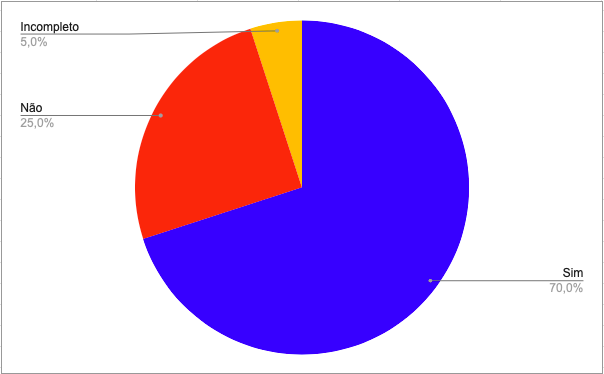
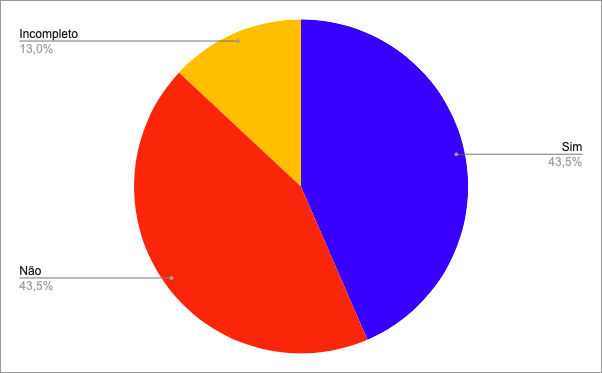
correcao verificacao do planejamento do storyboard

diff --git a/docs/Verificacao/OpenStreetMap/Entrega4/Planejamento-Avaliacao-sotoryboard.md b/docs/Verificacao/OpenStreetMap/Entrega4/Planejamento-Avaliacao-sotoryboard.md
@@ -20,33 +20,36 @@ Dessa forma, reavaliamos nosso checklist, levando em conta os pontos levantados 
 
 ## Checklist
 <!-- LIVRO BASE PARA CRIAÇÃO DAS PERGUNTAS -->
-Os checklists foram estabelecido com base nos critérios da literatura Interação Humano-Computador[4] e, como citado anteriormente, nas verificações realizadas anteriormente, pelo nosso grupo, OpenStreetMap[5] e pelo Grupo 3, Banco Central[6]. Além das perguntas padrões estabelecidas no [Planejamento Geral](../0planejamento-geral.md). Na tabela 1 abaixo, etá o checklist de verificação da versão 1.0 do artefato do Planejamento da Avaliação do Sotryboard.
+Os checklists foram estabelecido com base nos critérios livro Interação Humano-Computador e Experiência do usuário (capítulo 11)[4] e, como citado anteriormente, nas verificações realizadas anteriormente, pelo nosso grupo, OpenStreetMap[5] e pelo Grupo 3, Banco Central[6]. Além das perguntas padrões estabelecidas no [Planejamento Geral](../0planejamento-geral.md). Na tabela 1 abaixo, etá o checklist de verificação da versão 1.0 do artefato do Planejamento da Avaliação do Sotryboard.
 
 <center>
 <!-- ADICIONAR O CHECKLIST OU OS CHECKLISTS DA ENTREGA REFERENTE -->
 
-| ID | Pergunta                                                                                                                        | Avaliação | Observação |
-|----|---------------------------------------------------------------------------------------------------------------------------------|-----------|------------|
-| 1  | O artefato possui uma introdução condizente com o conteúdo do texto?                                                           |    Sim       |            |
-| 2  | Todas as bibliografias/referências bibliográficas são utilizadas no texto?                                                     |      Não     |    Não são utilizadas no texto.        |
-| 3  | Todas as tabelas e figuras são chamadas no texto, possuem legendas e fontes?                                                   |    Sim       |           |
-| 4  | As metodologias do texto definem de forma condizente as formas e os métodos que o grupo realizou o artefato?                   |     Sim      |            |
-| 5  | O artefato segue o Framework DECIDE?                                                                                            |    Sim       |      O artefato segue a estrutura do DECIDE, mas não explicitamente.      |
-| 6  | O artefato define claramente as metas e objetivos da avaliação?                                                                 |    Sim       |            |
-| 7  | O artefato indica quais métodos de avaliação serão utilizados para avaliar o storyboard?                                       |          Sim |           |
-| 8  | Os métodos escolhidos para a avaliação são apropriados?                                                                       |     Sim      |            |
-| 9  | O artefato considera e aborda questões práticas relevantes para a avaliação?                                                    |      Sim     |            |
-| 10 | O artefato informa a quantidade de participantes envolvidos na avaliação e o motivo dessa quantidade?                             |     Não      |          |
-| 11 | O perfil dos participantes foi definido?                                                                                        |  Sim         |            |
-| 12 | O artefato possui um cronograma com datas, horários e locais das tarefas a serem executadas pelos participantes?                |     Sim      |            |
-| 13 | O artefato identifica e descreve as questões específicas que a avaliação do storyboard deve responder?                |     Sim      |            |
-| 14 | O artefato apresenta as ferramentas que serão utilizadas na avaliação?                                                                      |    Não       |            |
-| 15 | O artefato contempla considerações éticas importantes relacionadas à avaliação do storyboard?                                  |      Sim     |      Pode retirar o Termo de Consentimento para Entrevistas e Pesquisas com Usuários e fazer apenas um link para ele.      |
-| 16 | Foi realizado um teste piloto?                                                                                                  |    Incompleto       |     Não está com o vídeo.       |
-| 17 | O artefato apresenta os resultados obtidos com o teste piloto?                                                                  |    Não       |            |
-| 18 | O artefato apresenta quais storyboards serão avaliados?                                                                          |    Sim       |           |
-| 19 | O artefato possui a mesma quantidade de storyboards em relação à quantidade de integrantes do grupo?                           |     Não      |     Só possui um Storyboard.       |
-| 20 | O artefato descreve como os dados coletados serão analisados e utilizados?                                                      |     Sim      |            |
+| ID | Pergunta | Avaliação | Observação |
+|----|----------|-----------|------------|
+| 1  | O artefato possui uma introdução condizente com o conteúdo do texto? | Sim |  |
+| 2  | Todas as bibliografias/referências bibliográficas são utilizadas no texto? | Não |  |
+| 3  | Todas as tabelas e figuras são chamadas no texto, possuem legendas e fontes? | Sim |  |
+| 4  | As metodologias do texto definem de forma condizente as formas e os métodos que o grupo realizou o artefato? | Não |  |
+| 5  | O artefato segue a estrutura do framework DECIDE? | Incompleto | Segue o framework, porém não deixa claro o qual etapa é qual letra do DECIDE. |
+| 6  | Os objetivos (que podem ser apropriação de tecnologia pelos usuários, ideias e alternativas de design, conformidade com um padrão, problemas na interação e na interface) estão claros e corretamente definidos? | Não |  |
+| 7  | Como atingir os objetivos (perguntas mais específicas para torná-los operacionais, perguntas a serem respondidas para verificar se os objetivos foram atingidos) está claro no artefato? | Não |  |
+| 8  | Os métodos (investigação, observação e/ou inspeção) para executar a avaliação estão definidos? | Não |  |
+| 9  | Caso o método escolhido para avaliação envolva usuários, o perfil dos participantes foi especificado? | Sim |  |
+| 10 | Caso o método escolhido para avaliação envolva usuários, o número de participantes foi especificado? | Não |  |
+| 11 | O número de participantes tem um motivo para ter sido escolhido? | Não |  |
+| 12 | Caso o método escolhido para avaliação envolva usuários, as questões éticas são apresentadas com um termo de consentimento? | Sim | Poderia tirar o termo de consentimento do artefato e apenas citar ele. |
+| 13 | Caso o método escolhido para avaliação envolva usuários, é apresentado um questionário pré-teste (questões relacionadas a características pessoais, experiências anteriores com tecnologia e conhecimento sobre o domínio, por exemplo) ou roteiro de entrevista estruturada para coletar informações dos participantes? | Não |  |
+| 14 | Caso o método escolhido para avaliação envolva usuários, é apresentado um roteiro de entrevista pós-teste (questões relacionadas a informações sobre a opinião e os sentimentos do participante decorrentes da experiência de uso observada)? | Incompleto | Não está explícito que são perguntas pró-teste e algumas perguntas planejadas, não devem ser feitas aos usuários |
+| 15 | O escopo da avaliação (delimitar quais partes da interface, caminhos de interação, tarefas e perfis de usuário devem fazer parte da avaliação) está definido? | Sim | Poderia criar um texto separado para falar do escopo |
+| 16 | O escopo da avaliação está de acordo com os objetivos? | Não | O objetivo não está correto |
+| 17 | Os recursos para realizar a avaliação estão indicados? | Incompleto | Alguns recursos a serem utilizados são apresentados no cronograma |
+| 18 | Os avaliadores que participarão da avaliação estão apresentados? | Sim |  |
+| 19 | Possui prazo/cronograma para realizar as etapas das avaliações? | Sim |  |
+| 20 | O artefato apresenta a menção de um teste piloto? | Sim | |
+| 21 | O artefato apresenta a realização de um teste piloto? | Não |  |
+| 22 | O artefato apresenta como os dados coletados serão interpretados para atribuir significado a eles? | Sim |  |
+| 23 | O artefato apresenta como será o relato dos resultados utilizando uma consolidação após a interpretação? | Sim |  |
 
 Tabela 1 - Chacklist Planejamento da Avaliação do Sotryboard (Fonte: Autores)
 </center>
@@ -67,13 +70,19 @@ Com base na inspeção realizada, passaremos para o processo de correção. O qu
 
 |ID |Descrição resumida|Detalhes da correção|Responsável pela correção|Revisor|Status|
 |-------|------|------|---------|---|--|
-|2 | Bibliografias/referências bibliográficas não são utilizadas no texto | Mencionar a referência bibliografica linkada no próprio texto.      | Guilherme || ok|
-| 5 | O artefato segue o Framework DECIDE, porém pode deixar mais explícito a sua utilização | Deixar mais explícito as etapas do framework DECIDE (colocar o passo, do DECIDE, que está sendo utlizado no título de cada tópico em expecífico).      | Guilherme ||ok|
-| 10 | A quantidade de participantes envolvidos na avaliação e o motivo dessa quantidade não estão presentes. | Especificar a quantidade de participantes e o motivo dessa quantidade     | Guilherme ||ok|
-| 14 | Não há menção explícita das ferramentas que serão utilizadas na avaliação |  Deixar de forma explícita as ferramentas que serão utilizadas na avaliação.     | Guilherme ||ok|
-| 16 | Não está com o vídeo mostrando a realização do teste piloto. | Colocar o vídeo mostrando a realização do teste piloto.      | Guilherme ||ok|
-| 17 | O artefato não apresenta os resultados obtidos com o teste piloto | Colocar no artefato o resultado do teste piloto      | Guilherme ||ok|
-| 20 | O artefato não possui a mesma quantidade de storyboards em relação à quantidade de integrantes do grupo      | Guilherme ||-|
+| 2 | As bibliografias/referências bibliográficas não são utilizadas no texto. |  Chamar as bibliografias/referências bibliográficas no texto.   | Guilherme |Raquel|ok|
+| 4 | As metodologias não definem de forma condizente as formas e os métodos que o grupo realizou o artefato. |  Incluir o framework DECIDE na metodologia.   | Guilherme |Raquel|ok|
+| 5 | Segue o framework, porém não deixa claro o qual etapa é qual letra do DECIDE. | Deixar mais explícito as etapas do framework DECIDE (colocar o passo, do DECIDE, que está sendo utlizado no título de cada tópico em expecífico).     | Guilherme |Raquel|ok|
+| 6 | Os objetivos não estão apropriados para a avaliação. | Utilizar um/alguns dos seguintes objetivos: apropriação de tecnologia pelos usuários, ideias e alternativas de design, conformidade com um padrão, problemas na interação e na interface.    | Guilherme |Raquel|ok|
+| 7 | Não está claro como verificar se os objetivo foram atingidos.|  Tornar os objetivos em perguntas mais específicas para torná-los operacionais.     | Guilherme |Raquel|ok|
+| 8 | Os métodos não estão corretamentes definidos.|  Utilizar um/alguns dos seguintes métodos: investigação, observação e/ou inspeção.     | Guilherme |Raquel|ok|
+| 10 | O número de participantes não foi especificado.|  Especificar o número de participantes.     | Guilherme |Raquel|ok|
+| 11 | O número de participantes não tem um motivo para ter sido escolhido.  | Colocar um motivo para a escolha da quantidade de participantes.  | Guilherme |Raquel|ok|
+| 13 | Não é apresentado um questionário pré-teste.  | Fazer um questionário pré-teste.  | Guilherme |Raquel|ok|
+| 14 | Não estão explícitas as perguntas pró-teste e algumas perguntas planejadas, não devem ser feitas aos usuários.  | Falar que possui perguntas pós-teste e reformular algumas perguntas.  | Guilherme |Raquel|ok|
+| 16 | O escopo da avaliação não está de acordo com os objetivos.  | Corrigir os objetivos e fazer o escopo com base neles.  | Guilherme |Raquel|ok|
+| 17 | Não apresenta todos recursos a serem utilizados.  | Criar um tópico para falar dos recursos a serem utilizados.  | Guilherme |Raquel|ok|
+| 21 | O artefato não apresenta a realização de um teste piloto.  | Colocar o teste piloto no artefato.  | Guilherme |Raquel|ok|
 
 
 Tabela 2 - Distribuição da Correção dos Artefatos (Fonte: Autores)
@@ -85,40 +94,36 @@ Abaixo, na tabela 3, encontra-se o checklist feito após a correção do Planeja
 <center>
 <!-- ADICIONAR O CHECKLIST OU OS CHECKLISTS DA ENTREGA REFERENTE -->
 
-| ID | Pergunta                                                                                                                        | Avaliação | Observação |
-|----|---------------------------------------------------------------------------------------------------------------------------------|-----------|------------|
-| 1  | O artefato possui uma introdução condizente com o conteúdo do texto?                                                           |    Sim       |            |
-| 2  | Todas as bibliografias/referências bibliográficas são utilizadas no texto?                                                     |      Sim     |            |
-| 3  | Todas as tabelas e figuras são chamadas no texto, possuem legendas e fontes?                                                   |    Sim       |           |
-| 4  | As metodologias do texto definem de forma condizente as formas e os métodos que o grupo realizou o artefato?                   |     Sim      |            |
-| 5  | O artefato segue o Framework DECIDE?                                                                                            |    Sim       |           |
-| 6  | O artefato define claramente as metas e objetivos da avaliação?                                                                 |    Sim       |            |
-| 7  | O artefato indica quais métodos de avaliação serão utilizados para avaliar o storyboard?                                       |          Sim |           |
-| 8  | Os métodos escolhidos para a avaliação são apropriados?                                                                       |     Sim      |            |
-| 9  | O artefato considera e aborda questões práticas relevantes para a avaliação?                                                    |      Sim     |            |
-| 10 | O artefato informa a quantidade de participantes envolvidos na avaliação e o motivo dessa quantidade?                             |     Sim      |          |
-| 11 | O perfil dos participantes foi definido?                                                                                        |  Sim         |            |
-| 12 | O artefato possui um cronograma com datas, horários e locais das tarefas a serem executadas pelos participantes?                |     Sim      |            |
-| 13 | O artefato identifica e descreve as questões específicas que a avaliação do storyboard deve responder?                |     Sim      |            |
-| 14 | O artefato apresenta as ferramentas que serão utilizadas na avaliação?                                                                      |    Sim       |            |
-| 15 | O artefato contempla considerações éticas importantes relacionadas à avaliação do storyboard?                                  |      Sim     |            |
-| 16 | Foi realizado um teste piloto?                                                                                                  |    Sim       |          |
-| 17 | O artefato apresenta os resultados obtidos com o teste piloto?                                                                  |    Sim       |            |
-| 18 | O artefato apresenta quais storyboards serão avaliados?                                                                          |    Sim       |           |
-| 19 | O artefato possui a mesma quantidade de storyboards em relação à quantidade de integrantes do grupo?                           |     Não      |           |
-| 20 | O artefato descreve como os dados coletados serão analisados e utilizados?                                                      |     Sim      |            |
+| ID | Pergunta | Avaliação | Observação |
+|----|----------|-----------|------------|
+| 1  | O artefato possui uma introdução condizente com o conteúdo do texto? | Sim |  |
+| 2  | Todas as bibliografias/referências bibliográficas são utilizadas no texto? | Sim |  |
+| 3  | Todas as tabelas e figuras são chamadas no texto, possuem legendas e fontes? | Sim |  |
+| 4  | As metodologias do texto definem de forma condizente as formas e os métodos que o grupo realizou o artefato? | Sim |  |
+| 5  | O artefato segue a estrutura do framework DECIDE? | Sim |  |
+| 6  | Os objetivos (que podem ser apropriação de tecnologia pelos usuários, ideias e alternativas de design, conformidade com um padrão, problemas na interação e na interface) estão claros e corretamente definidos? | Sim |  |
+| 7  | Como atingir os objetivos (perguntas mais específicas para torná-los operacionais, perguntas a serem respondidas para verificar se os objetivos foram atingidos) está claro no artefato? | Sim |  |
+| 8  | Os métodos (investigação, observação e/ou inspeção) para executar a avaliação estão definidos? | Sim |  |
+| 9  | Caso o método escolhido para avaliação envolva usuários, o perfil dos participantes foi especificado? | Sim |  |
+| 10 | Caso o método escolhido para avaliação envolva usuários, o número de participantes foi especificado? | Sim |  |
+| 11 | O número de participantes tem um motivo para ter sido escolhido? | Sim |  |
+| 12 | Caso o método escolhido para avaliação envolva usuários, as questões éticas são apresentadas com um termo de consentimento? | Sim |  |
+| 13 | Caso o método escolhido para avaliação envolva usuários, é apresentado um questionário pré-teste (questões relacionadas a características pessoais, experiências anteriores com tecnologia e conhecimento sobre o domínio, por exemplo) ou roteiro de entrevista estruturada para coletar informações dos participantes? | Sim |  |
+| 14 | Caso o método escolhido para avaliação envolva usuários, é apresentado um roteiro de entrevista pós-teste (questões relacionadas a informações sobre a opinião e os sentimentos do participante decorrentes da experiência de uso observada)? | Sim |  |
+| 15 | O escopo da avaliação (delimitar quais partes da interface, caminhos de interação, tarefas e perfis de usuário devem fazer parte da avaliação) está definido? | Sim |  |
+| 16 | O escopo da avaliação está de acordo com os objetivos? | Sim |  |
+| 17 | Os recursos para realizar a avaliação estão indicados? | Sim |  |
+| 18 | Os avaliadores que participarão da avaliação estão apresentados? | Sim |  |
+| 19 | Possui prazo/cronograma para realizar as etapas das avaliações? |Sim  |  |
+| 20 | O artefato apresenta a menção de um teste piloto? | Sim | |
+| 21 | O artefato apresenta a realização de um teste piloto? | Sim |  |
+| 22 | O artefato apresenta como os dados coletados serão interpretados para atribuir significado a eles? |  Sim|  |
+| 23 | O artefato apresenta como será o relato dos resultados utilizando uma consolidação após a interpretação? |Sim  |  |
 
 Tabela 3 - Chacklist Pós Correção do Planejamento da Avaliação do Sotryboard (Fonte: Autores)
 </center>
 
-A figura 2 abaixo mostra um gráfico de pizza com o resultado da avaliação do checklist do Planejamento da Avaliação do Sotryboard após a correção.
 
-<center>
-
-<img src="../../assets/img/planejamento-Storyboard-depois.png"></img>
-<p>Figura 2 - Gráfico Checklist Pós Correção Planejamento da Avaliação do Sotryboard (Fonte: Autores)</p>
-
-</center>
 
 
 ## Referência bibliográfica
@@ -129,7 +134,7 @@ A figura 2 abaixo mostra um gráfico de pizza com o resultado da avaliação do 
 
 > [3] BUSH, Marilyn, Chris Gerrard, Clifford Shelley. Fagan Inspection: The Silver Bullet No-one Wants to Fire. London SPIN, 25 mar. 2010.
 
-> [4] BARBOSA, S. D. J.; SILVA, B. S. Interação Humano-Computador. Rio de Janeiro: Elsevier, 2011. Acesso em 17/06/2023
+> [4] Barbosa, S. D. J.; Silva, B. S. da; Silveira, M. S.; Gasparini, I.; Darin, T.; Barbosa, G. D. J. (2021) Interação Humano-Computador e Experiência do usuário.
 
 > [5] KISHIMOTO, Guilherme. Verificação do artefato "Planejamento da Avaliação do Sotryboard". Repositório do Grupo OpenStreetMap da disciplina de Interação Humano Computador da Universidade de Brasília, 2023. Disponível em: https://interacao-humano-computador.github.io/2023.1-OpenStreetMap/DesignAvaliação/storyboard/planejamento_storyboard/. Acesso em 19/06/2023
 
@@ -140,5 +145,6 @@ A figura 2 abaixo mostra um gráfico de pizza com o resultado da avaliação do 
 |    Data    | Data Prevista de Revisão | Versão |      Descrição       |                                 Autor                                  |               Revisor               |
 | :--------: | :----------------------: | :----: | :------------------: | :--------------------------------------------------------------------: | :---------------------------------: |
 | 19/06/2023 |        19/06/2023        |  1.0   | Criação do documento |  [Guilherme](https://github.com/guilhermekishimoto) | [Paulo]() |
+| 29/06/2023 |        30/06/2023        |  1.1   | Refatoração do Checklist |  [Guilherme](https://github.com/guilhermekishimoto) | [Paulo]() |
 
 
